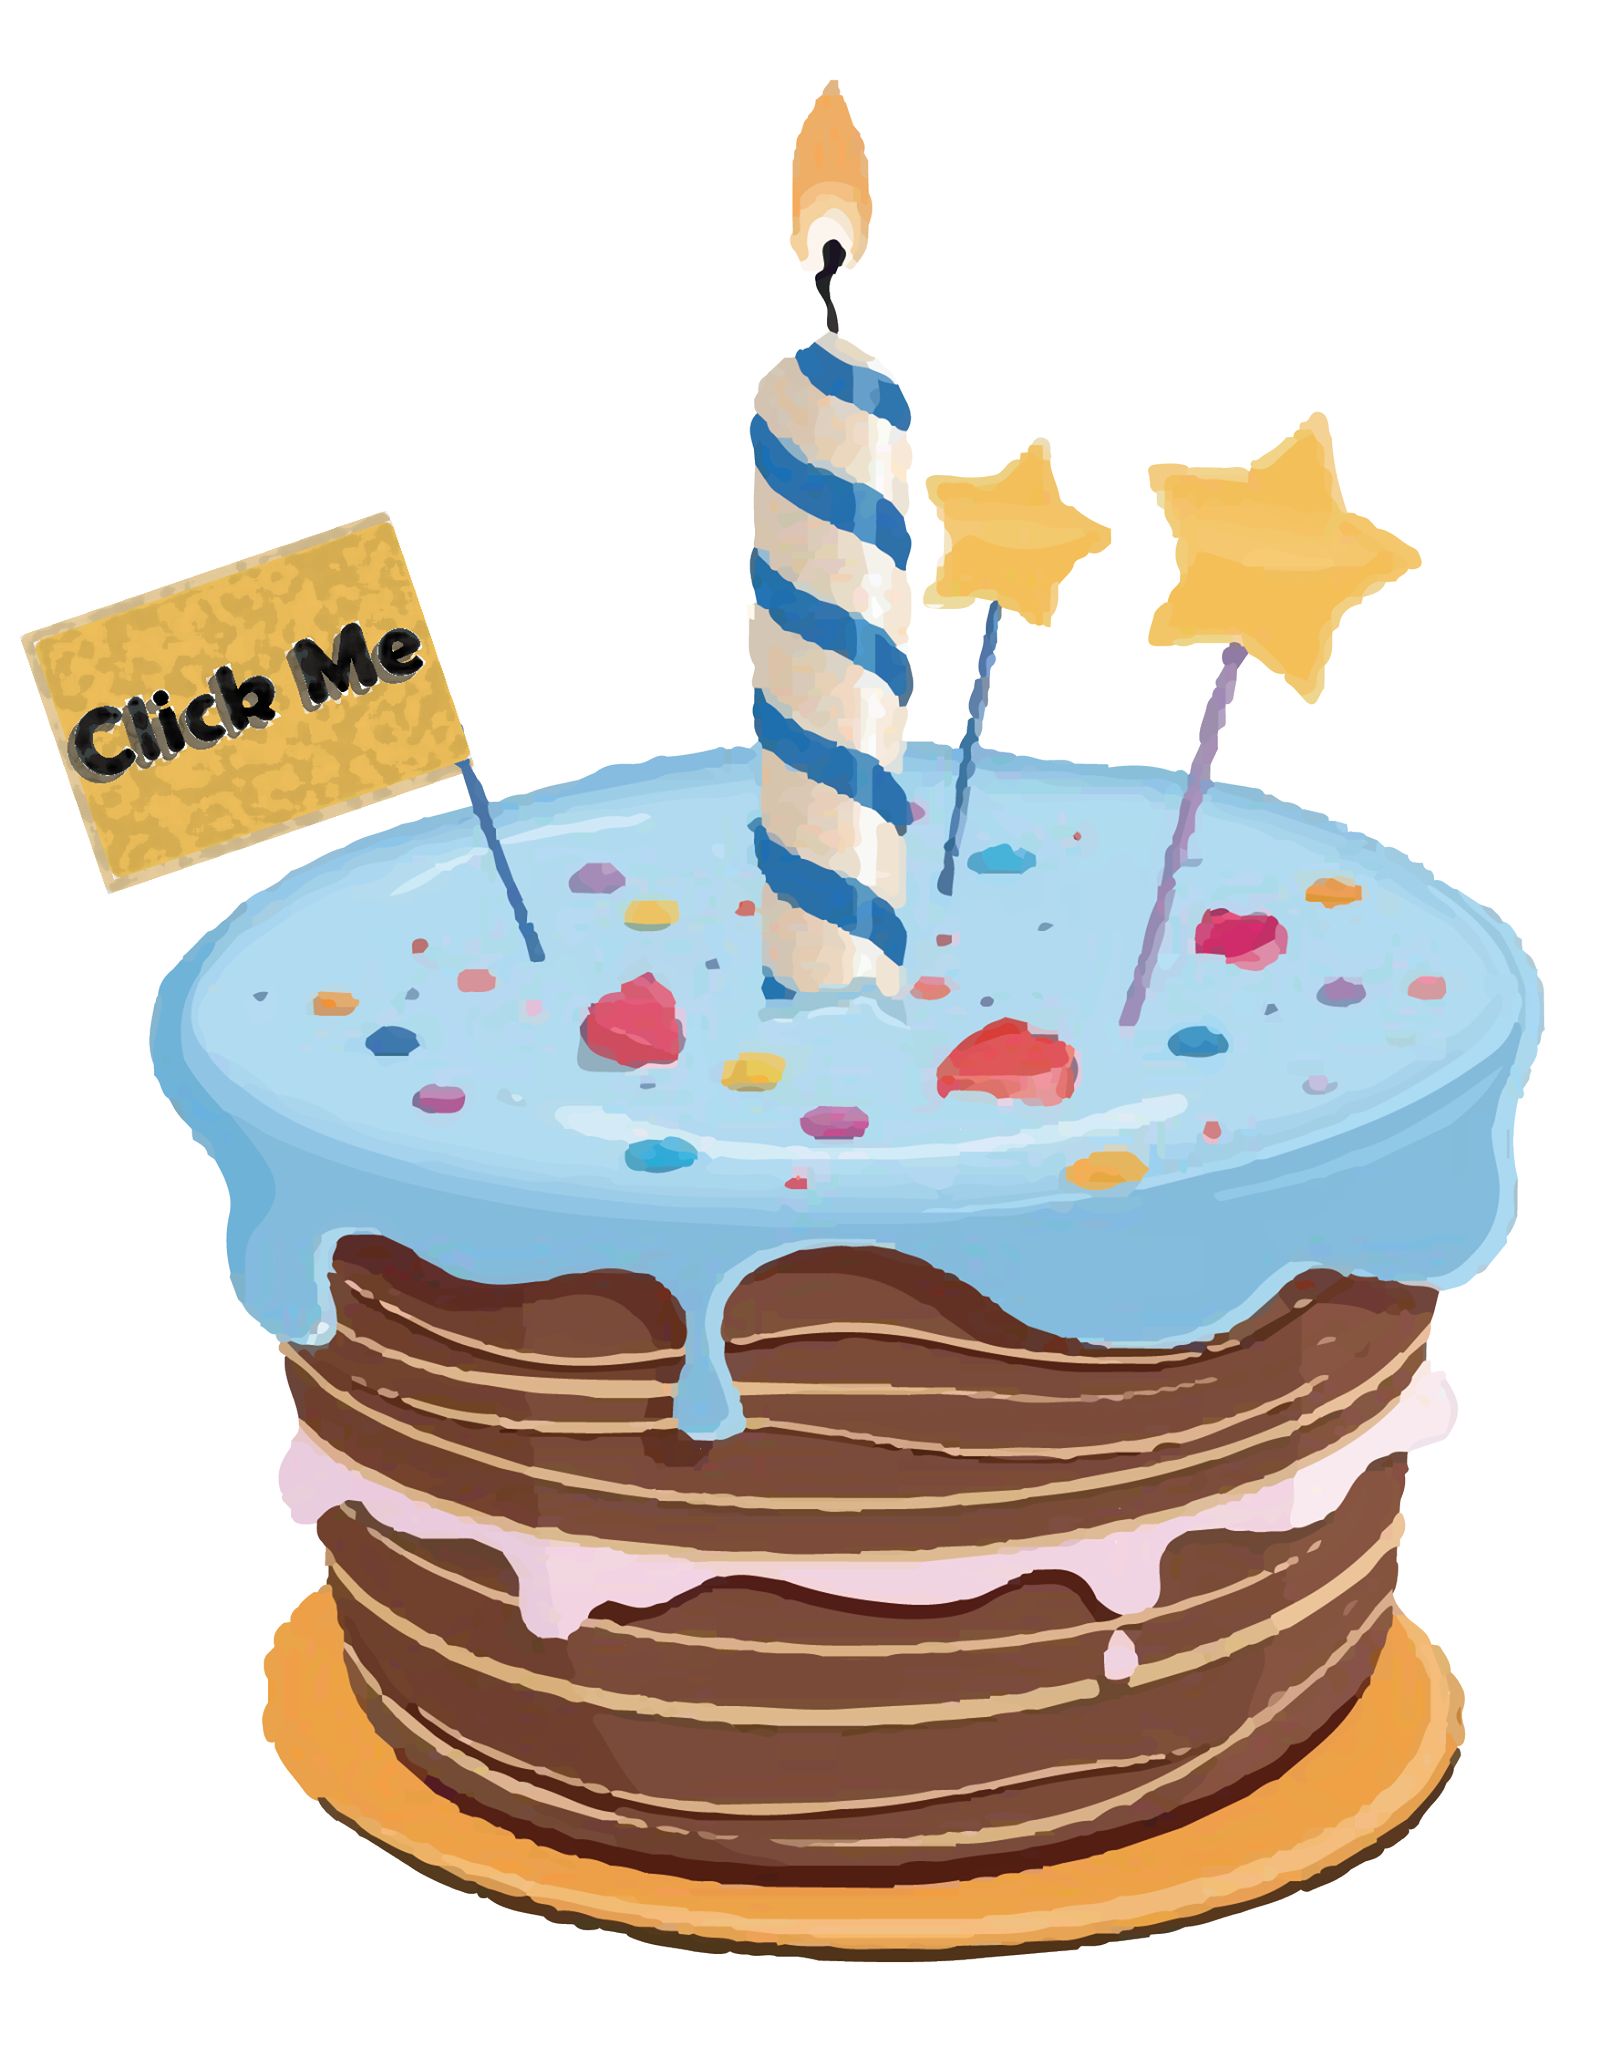
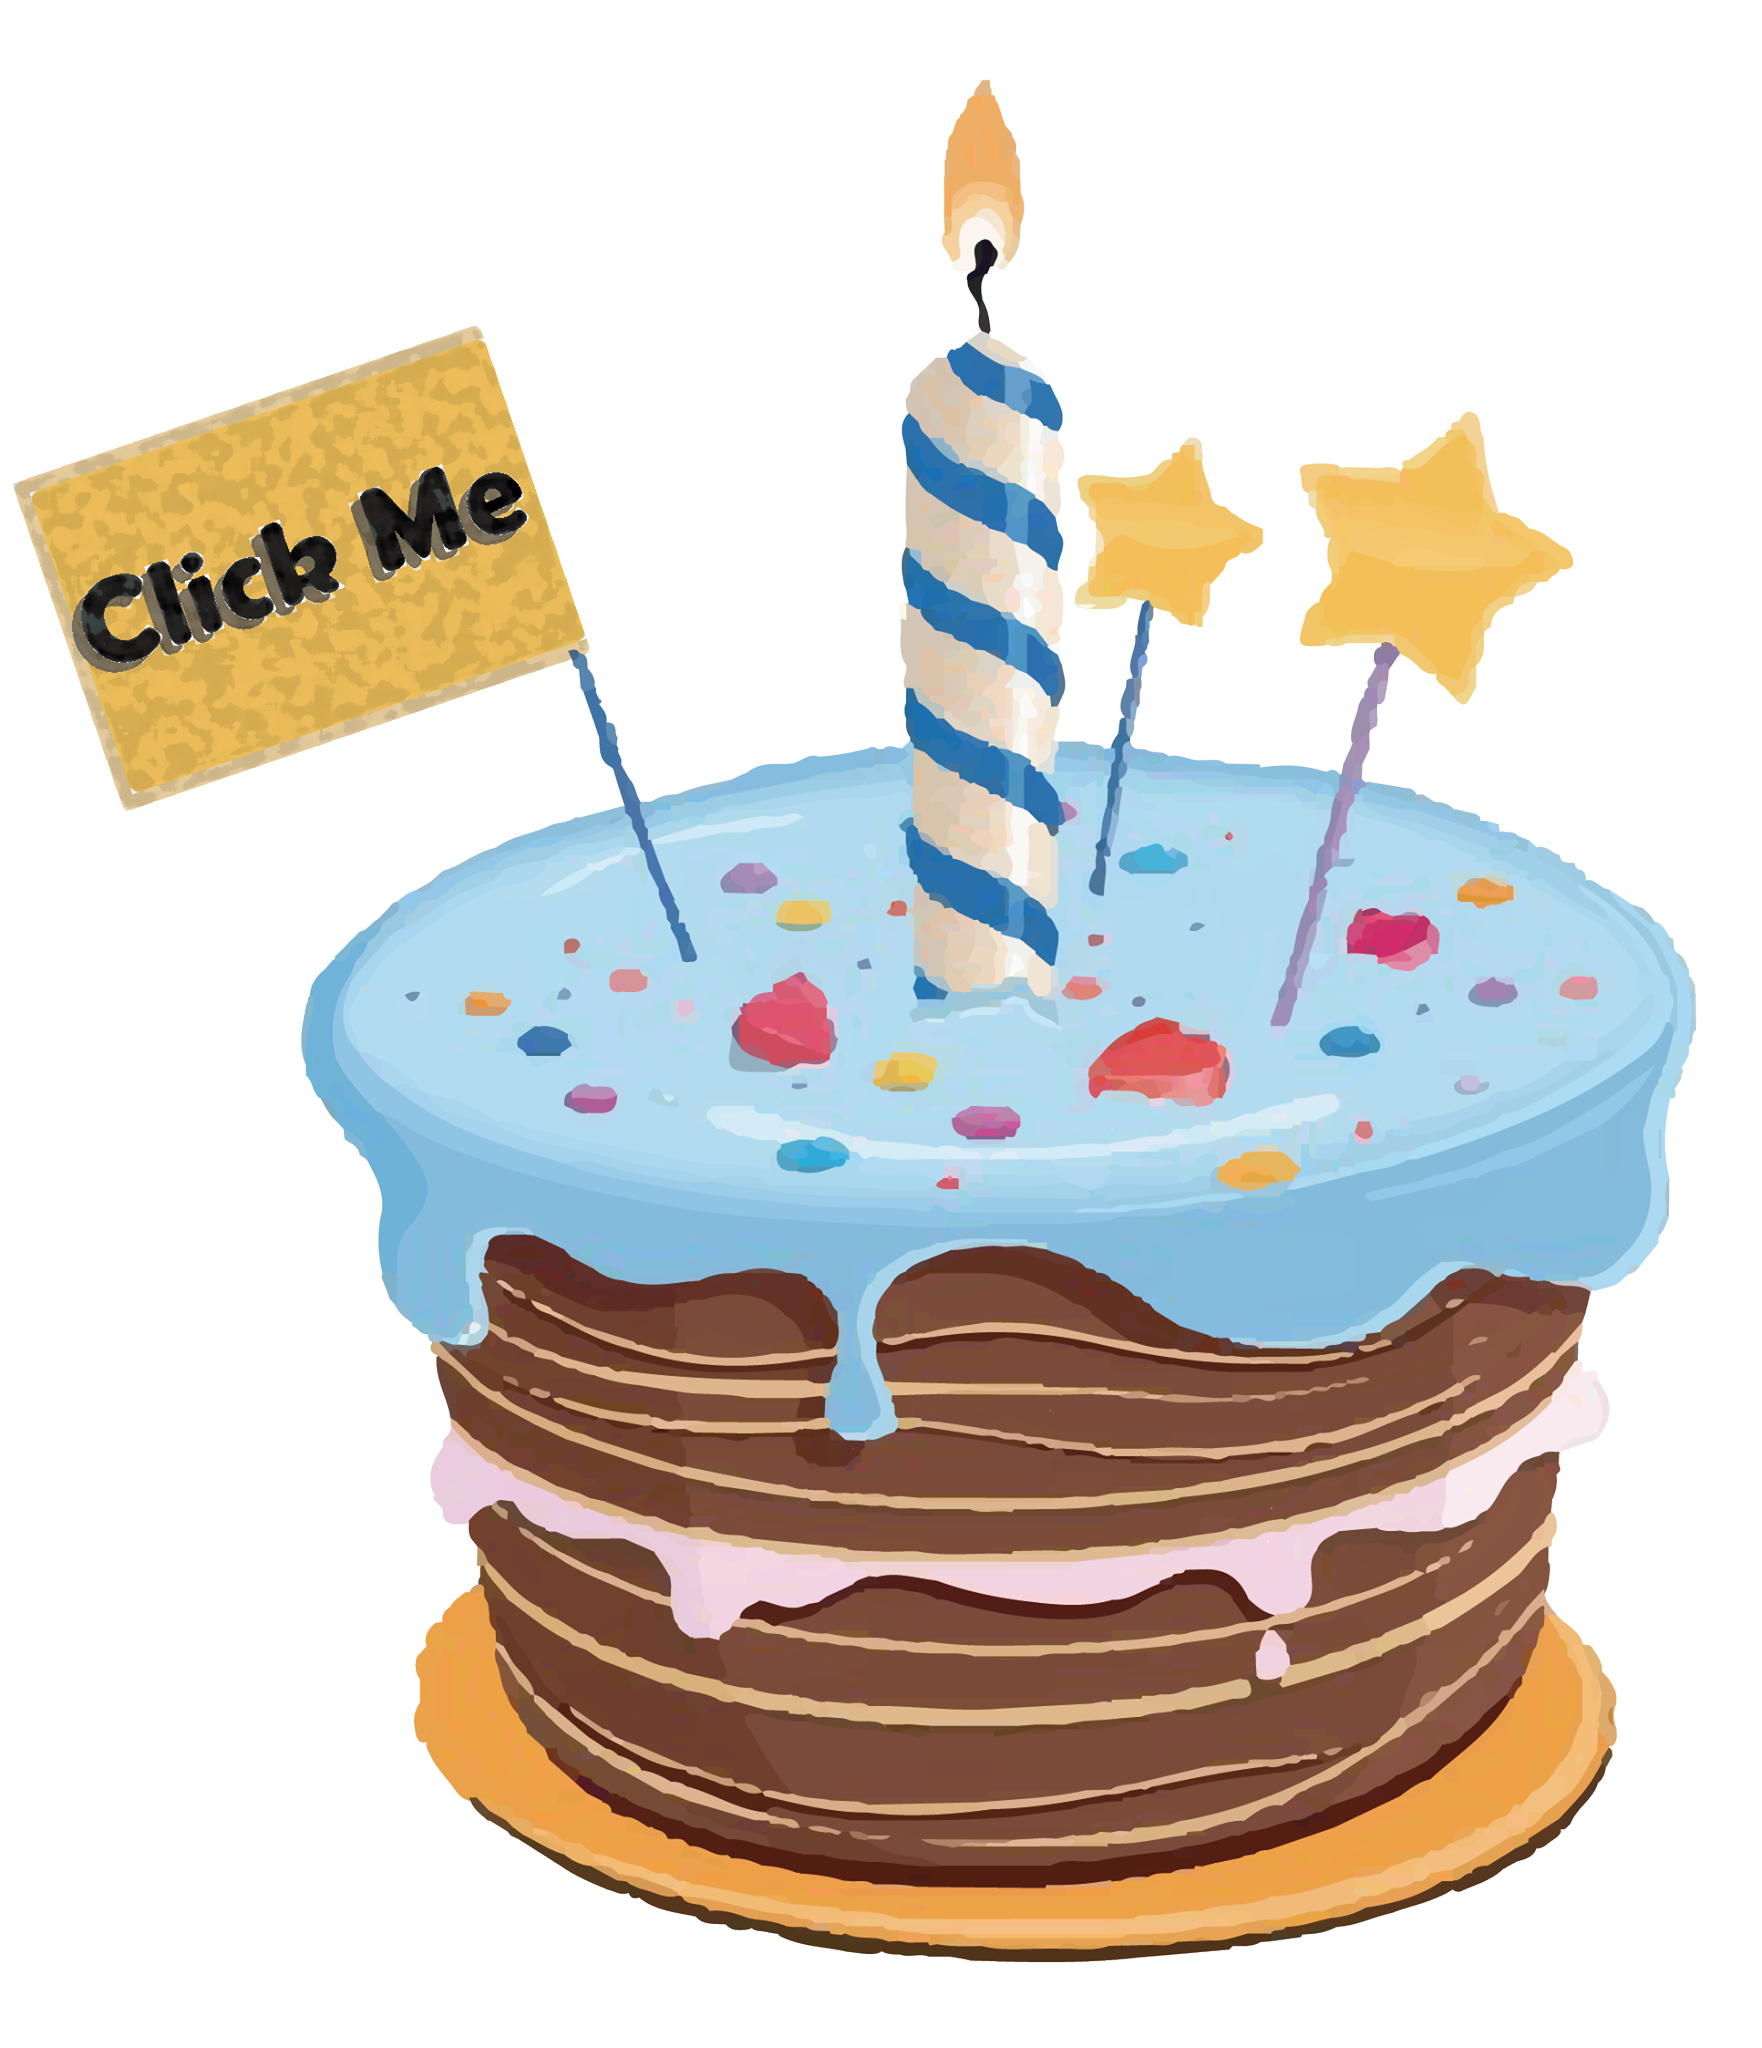
add Animate Test

Changed region(s): [[0.0, 0.0312, 0.9311, 0.9688], [0.9001, 0.4375, 0.9621, 0.625]]

diff --git a/AnimateTest/lily041580.html b/AnimateTest/lily041580.html
@@ -58,8 +58,9 @@
 	<div id="When">
 		<font color="white" size="5px" id="time">19960415</font>
 	</div>
-	<img id="Cake" src="images/cake.png" width="100px" height="100px">
-
+	<center>
+		<img id="Cake" src="images/cake.png" width="20%">
+	</center>
 
 	<script type="text/javascript">
 
